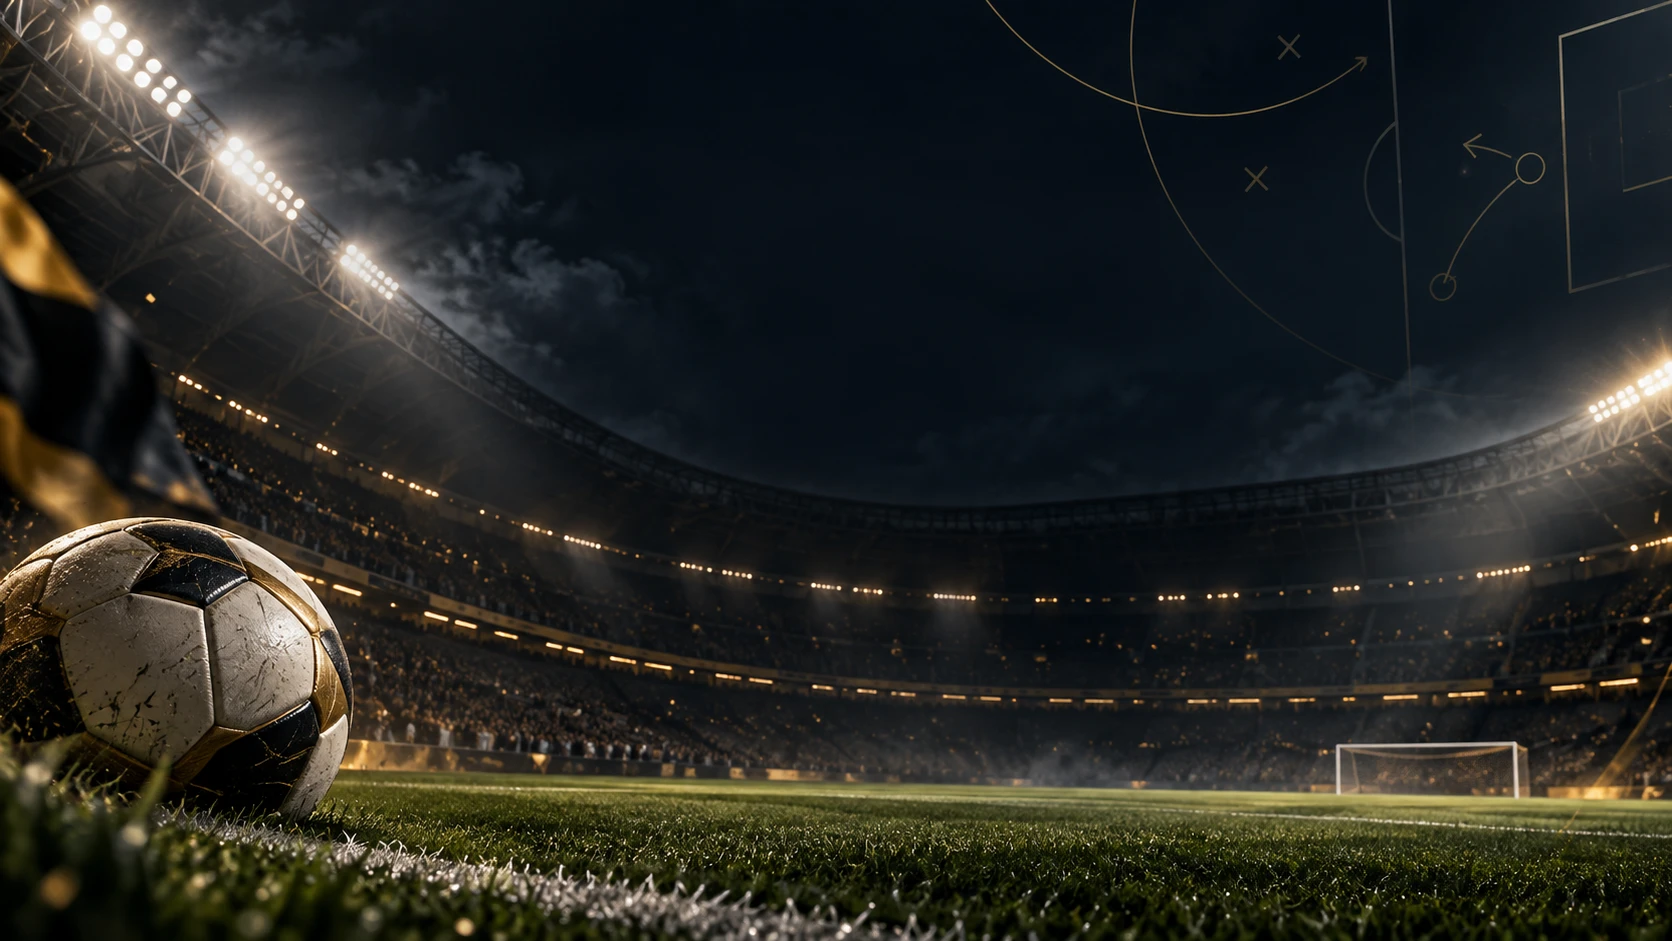
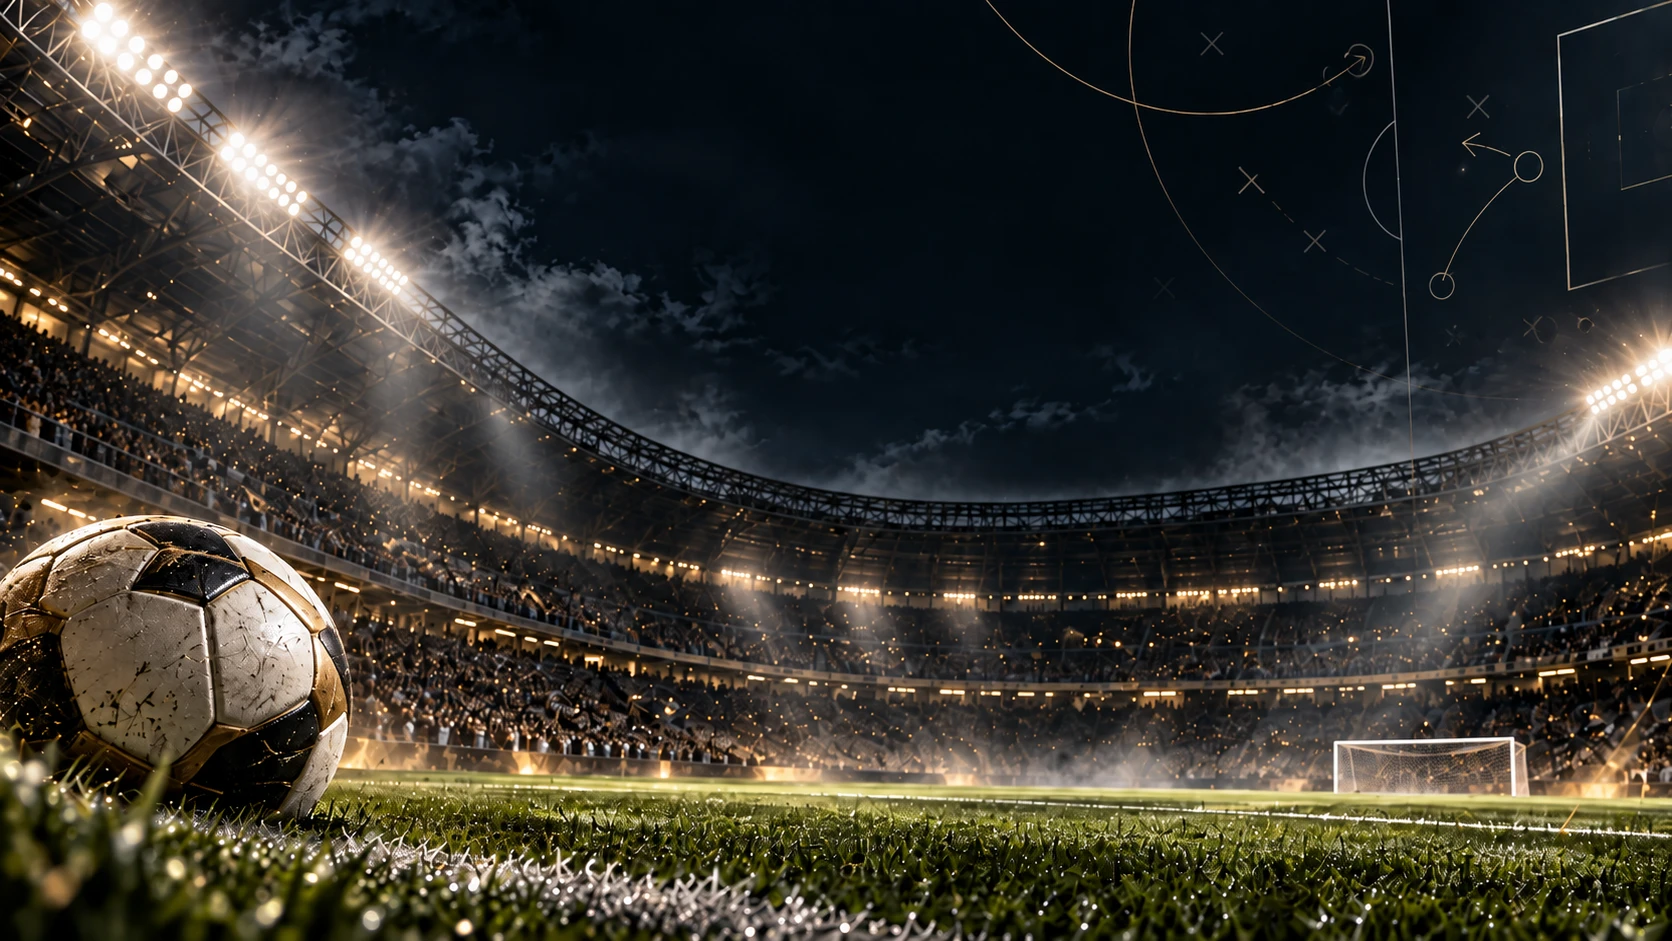
feat: portal más compacto: ícono sobre la foto y una línea por tarjeta
Foto nueva de Partido (sin la bandera). El ícono va arriba a la izquierda de
la foto, y abajo quedan el nombre, una línea con lo esencial de cada módulo y
Entrar a la derecha. Se van las pastillas de pasos y la nota: las tarjetas
quedan a la mitad de alto.

Claude-Session: https://claude.ai/code/session_01Sri9Qe7bBXArPUc94PNymb

diff --git a/src/PortalApp.jsx b/src/PortalApp.jsx
@@ -22,8 +22,7 @@ const modoInicial = () => {
     : MODOS.PORTAL;
 };
 
-// Las dos puertas de la app, contadas en criollo: qué se hace en cada una y
-// por qué pasos se va. Nada técnico: eso queda para adentro.
+// Las dos puertas de la app, contadas en una línea: lo esencial de cada una.
 const TARJETAS = [
   {
     modo: MODOS.PARTIDO,
@@ -32,9 +31,7 @@ const TARJETAS = [
     Arte: ArtePartido,
     Icono: IconoPartido,
     titulo: "Partido",
-    texto:
-      "El día del partido, en vivo desde la cancha: la formación, los tiempos de cada período, los cambios, el VAR y la hidratación. Al final se guarda todo con un botón.",
-    pasos: ["Formación", "Tiempos", "Cambios", "Guardar"],
+    texto: "Registrá el partido en vivo: formación, tiempos y cambios.",
   },
   {
     modo: MODOS.ENTRENAMIENTO,
@@ -44,19 +41,20 @@ const TARJETAS = [
     Icono: IconoFlujo,
     titulo: "Flujo diario",
     etiqueta: "En prueba",
-    texto:
-      "Lo de todos los días después de entrenar: las tareas de la sesión y sus cortes en la nube, la descarga de los datos, la planilla de Excel, el PSE y los archivos para cargar.",
-    pasos: ["Tareas", "Cortes", "Descarga", "Planilla", "PSE", "Carga"],
-    nota: "Hoy están las tareas y los cortes. El resto se va sumando.",
+    texto: "Todo lo del día después de entrenar: cortes, datos, planilla y PSE.",
   },
 ];
 
-// La foto de la tarjeta; si no carga (primera vez sin señal), el dibujo.
-const FotoTarjeta = ({ src, Arte }) => {
+// La foto de la tarjeta con el ícono arriba a la izquierda; si la foto no
+// carga (primera vez sin señal), va el dibujo.
+const FotoTarjeta = ({ src, Arte, Icono }) => {
   const [fallo, setFallo] = useState(false);
   return (
     <span className="portal-foto">
       {fallo ? <Arte /> : <img src={src} alt="" decoding="async" onError={() => setFallo(true)} />}
+      <span className="portal-icono">
+        <Icono />
+      </span>
     </span>
   );
 };
@@ -74,7 +72,7 @@ const Portal = ({ onElegir }) => {
         </div>
 
         <div className="portal-opciones">
-          {TARJETAS.map(({ modo, clase, foto, Arte, Icono, titulo, etiqueta, texto, pasos, nota }) => (
+          {TARJETAS.map(({ modo, clase, foto, Arte, Icono, titulo, etiqueta, texto }) => (
             <button
               type="button"
               key={modo}
@@ -82,23 +80,14 @@ const Portal = ({ onElegir }) => {
               onClick={() => onElegir(modo)}
               aria-label={`Entrar a ${titulo}`}
             >
-              <FotoTarjeta src={foto} Arte={Arte} />
+              <FotoTarjeta src={foto} Arte={Arte} Icono={Icono} />
               <span className="portal-cuerpo">
-                <span className="portal-icono">
-                  <Icono />
-                </span>
                 <span className="portal-tarjeta-texto">
                   <strong>
                     {titulo}
                     {etiqueta && <em className="portal-beta">{etiqueta}</em>}
                   </strong>
                   <small>{texto}</small>
-                  <span className="portal-pasos" aria-label="Pasos">
-                    {pasos.map((paso) => (
-                      <i key={paso}>{paso}</i>
-                    ))}
-                  </span>
-                  {nota && <span className="portal-nota">{nota}</span>}
                 </span>
                 <span className="portal-entrar" aria-hidden="true">
                   Entrar <span>›</span>

diff --git a/src/portal.css b/src/portal.css
@@ -59,8 +59,8 @@
   gap: 16px;
 }
 
-/* Cada tarjeta es un botón grande: la foto arriba, entera, y el texto abajo
-   sobre fondo oscuro. La insignia del ícono pisa el borde de la foto. */
+/* Cada tarjeta es un botón grande: la foto arriba, entera, con el ícono en
+   la esquina, y abajo el nombre, una línea de qué hay adentro y Entrar. */
 .portal-tarjeta {
   position: relative;
   overflow: hidden;
@@ -118,13 +118,17 @@
 
 .portal-cuerpo {
   position: relative;
-  display: grid;
-  gap: 12px;
-  padding: 0 20px 20px;
+  display: flex;
+  align-items: center;
+  justify-content: space-between;
+  gap: 14px;
+  padding: 14px 20px 18px;
 }
 
 .portal-icono {
-  margin-top: -30px;
+  position: absolute;
+  top: 14px;
+  left: 14px;
   display: grid;
   place-items: center;
   width: 58px;
@@ -155,7 +159,9 @@
 
 .portal-tarjeta-texto {
   display: grid;
-  gap: 10px;
+  flex: 1 1 auto;
+  min-width: 0;
+  gap: 6px;
 }
 
 .portal-tarjeta-texto strong {
@@ -163,7 +169,7 @@
   align-items: center;
   flex-wrap: wrap;
   gap: 10px;
-  font-size: 1.7rem;
+  font-size: 1.55rem;
   letter-spacing: -0.02em;
   line-height: 1.05;
 }
@@ -189,38 +195,13 @@
   line-height: 1.5;
 }
 
-.portal-pasos {
-  display: flex;
-  flex-wrap: wrap;
-  gap: 6px;
-}
-
-.portal-pasos i {
-  padding: 5px 9px;
-  border: 1px solid rgba(255, 255, 255, 0.16);
-  border-radius: 999px;
-  background: rgba(255, 255, 255, 0.1);
-  color: #f4f6f8;
-  font-size: 0.7rem;
-  font-style: normal;
-  font-weight: 800;
-  letter-spacing: 0.05em;
-  text-transform: uppercase;
-}
-
-.portal-nota {
-  color: var(--portal-muted);
-  font-size: 0.8rem;
-  font-weight: 600;
-}
-
 .portal-entrar {
-  justify-self: start;
+  flex: 0 0 auto;
   display: inline-flex;
   align-items: center;
-  gap: 8px;
+  gap: 6px;
   min-height: 44px;
-  padding: 0 18px;
+  padding: 0 16px;
   border-radius: 12px;
   background: #fff;
   color: #0b0d10;
@@ -248,7 +229,11 @@
   }
 
   .portal-cuerpo {
-    padding: 0 16px 18px;
+    padding: 12px 16px 16px;
+  }
+
+  .portal-tarjeta-texto strong {
+    font-size: 1.35rem;
   }
 
   .portal-tarjeta-texto strong {
